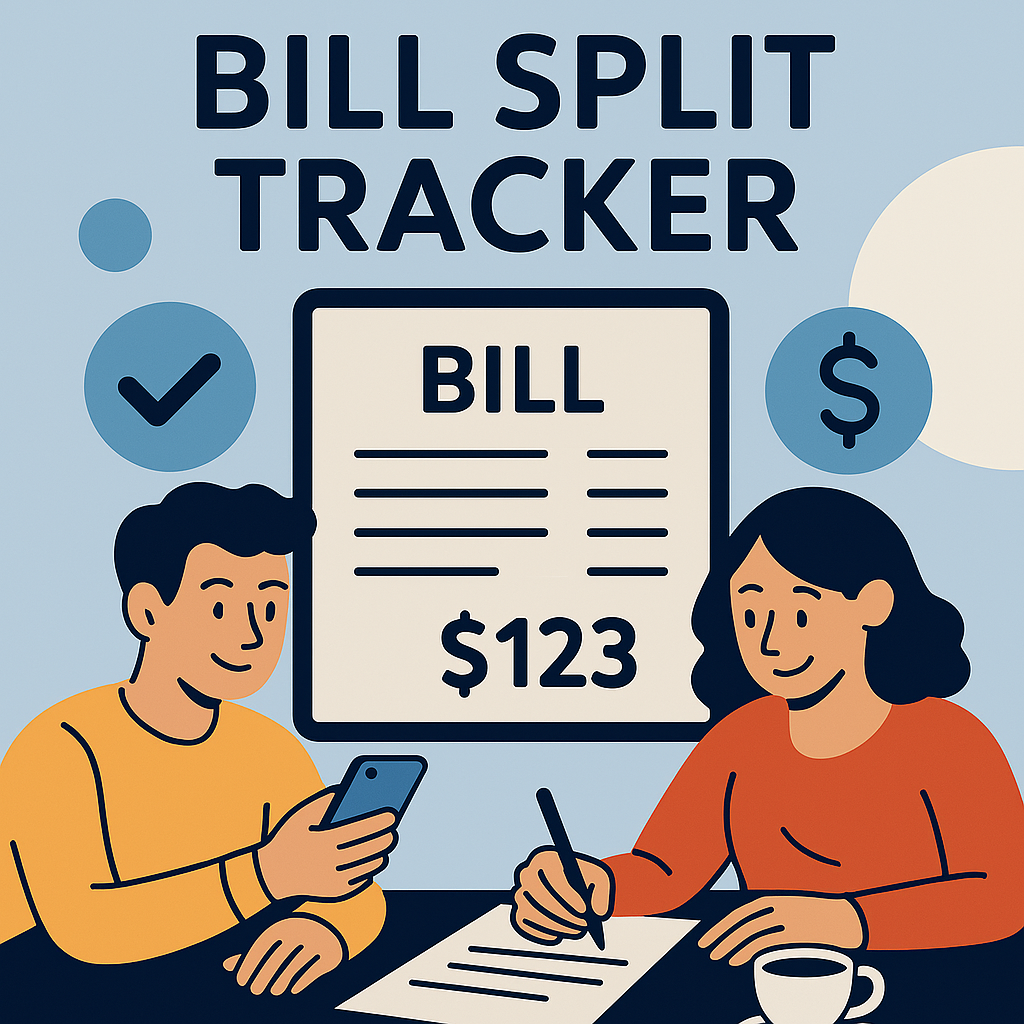
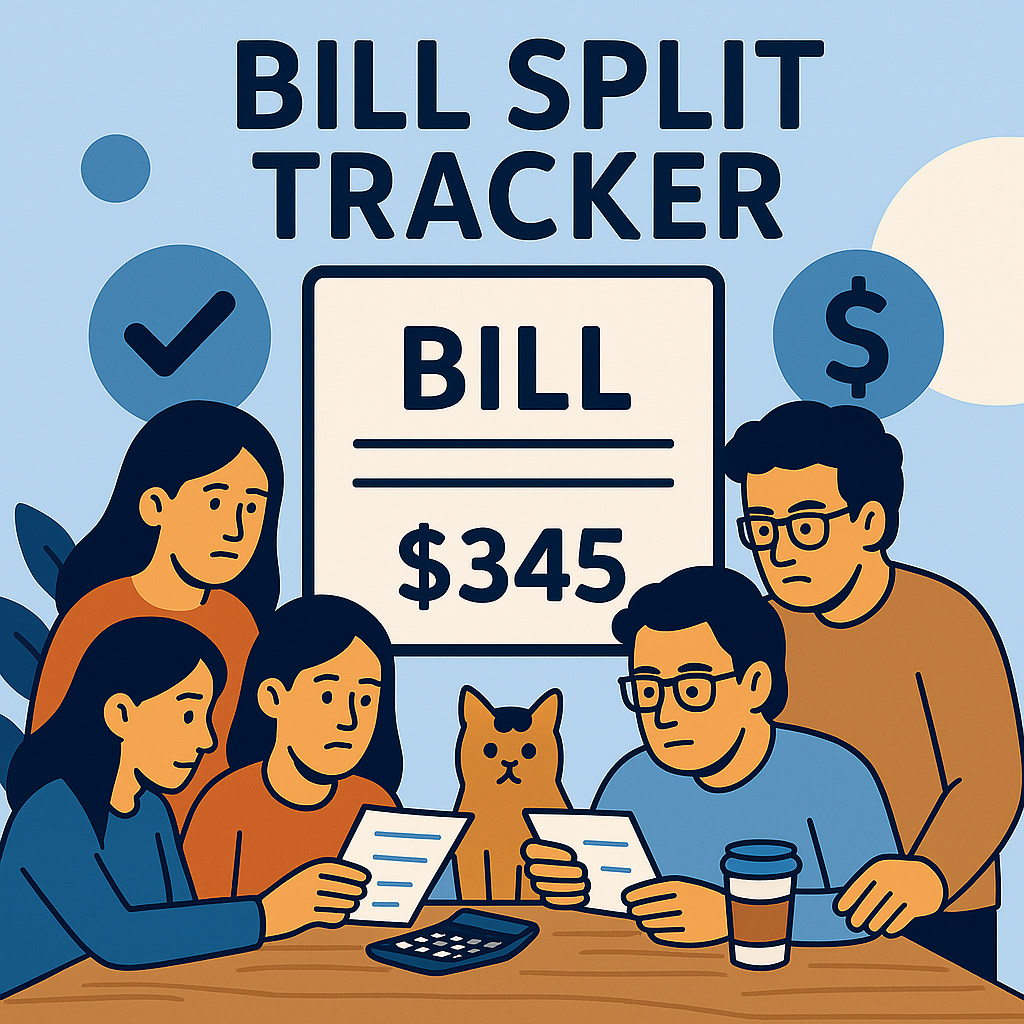
Changing Home

diff --git a/index.php b/index.php
@@ -11,7 +11,7 @@
         <div class="row justify-content-center">
             <div class="col-md-6 col-lg-4 mb-4">
                 <div class="card" style="width: 100%;">
-                    <img src="resources/images/expense-balance.jpg" class="card-img-top" alt="Expense Balance">
+                    <img src="resources/images/expense-balance.png" class="card-img-top" alt="Expense Balance">
                     <div class="card-body">
                         <h5 class="card-title">Expense Balance</h5>
                         <p class="card-text">Calculate and Balance Shared Expenses Among Friends</p>
@@ -21,7 +21,7 @@
             </div>
             <div class="col-md-6 col-lg-4 mb-4">
                 <div class="card" style="width: 100%;">
-                    <img src="resources/images/vehicle-tracker.jpg" class="card-img-top" alt="Vehicle Tracker">
+                    <img src="resources/images/vehicle-tracker.png" class="card-img-top" alt="Vehicle Tracker">
                     <div class="card-body">
                         <h5 class="card-title">Vehicle Tracker</h5>
                         <p class="card-text">Track Vehicle's Daily Distance, Mileage and Maintenance</p>
@@ -36,6 +36,26 @@
                         <h5 class="card-title">Bill Split Tracker</h5>
                         <p class="card-text">Track group bills, split expenses, and manage shared payments easily.</p>
                         <a href="/pages/tools/bill-split-tracker/view.php" class="btn btn-primary">Bill Split Tracker</a>
+                    </div>
+                </div>
+            </div>
+            <div class="col-md-6 col-lg-4 mb-4">
+                <div class="card" style="width: 100%;">
+                    <img src="resources/images/event-tracker.png" class="card-img-top" alt="Events Tracker">
+                    <div class="card-body">
+                        <h5 class="card-title">Events Tracker</h5>
+                        <p class="card-text">Track Birthdays, Events and Anniversaries and their Celebrations</p>
+                        <a href="/pages/tools/events-anniversary/view.php" class="btn btn-primary">Events Tracker</a>
+                    </div>
+                </div>
+            </div>
+            <div class="col-md-6 col-lg-4 mb-4">
+                <div class="card" style="width: 100%;">
+                    <img src="resources/images/notebook.png" class="card-img-top" alt="Notebook">
+                    <div class="card-body">
+                        <h5 class="card-title">Notebook</h5>
+                        <p class="card-text">Digital Notebook to take notes and manage your thoughts</p>
+                        <a href="/pages/tools/Notebook/view.php" class="btn btn-primary">Notebook</a>
                     </div>
                 </div>
             </div>

diff --git a/README.md b/README.md
@@ -22,3 +22,7 @@ Users
         Vehicle Tracker: /pages/tools/vehicle-tracker/view.php
 
         Bill Split Tracker: /pages/tools/bill-split-tracker/view.php
+
+        Events Tracker: /pages/tools/events-anniversary/view.php
+
+        Notebook: /pages/tools/notebook/view.php
